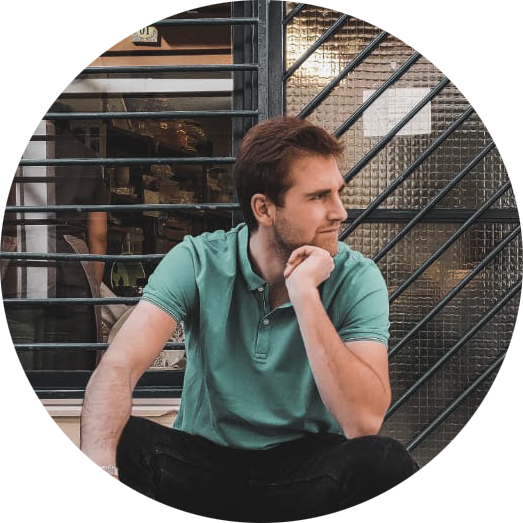
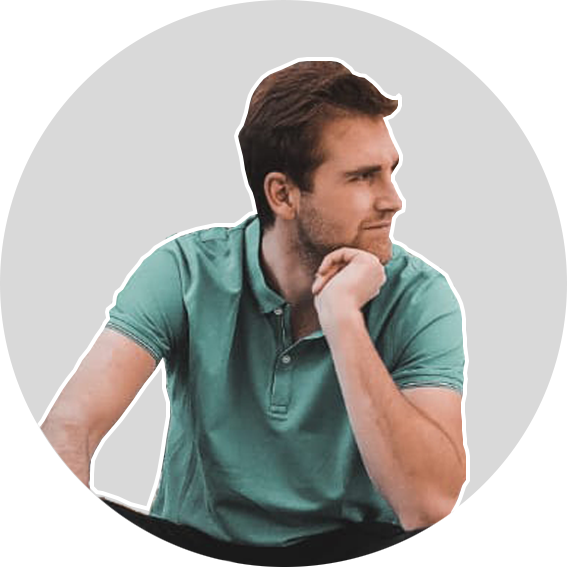
Head updated + profile image + homepage layout

diff --git a/view_my_project_wonderfood.html b/view_my_project_wonderfood.html
@@ -8,14 +8,19 @@
     <meta http-equiv="X-UA-Compatible" content="IE=edge,chrome=1">
     <meta name="HandheldFriendly" content="true">
     <meta charset="utf-8"/>
-    <link href="https://fonts.googleapis.com/css?family=Lato" rel="stylesheet">
-    <link href="https://fonts.googleapis.com/css?family=Merriweather:300,400" rel="stylesheet" type="text/css">
-    <link href="https://fonts.googleapis.com/css?family=Pacifico" rel="stylesheet">
-    <link rel="stylesheet" href="styles/style.css">
-    <link rel="stylesheet" href="https://cdnjs.cloudflare.com/ajax/libs/animate.css/4.0.0/animate.min.css"/>
-    <!--  Slick css  -->
+    <!--  Fonts  -->
+	<link href="https://fonts.googleapis.com/css?family=Lato" rel="stylesheet">
+	<link href="https://fonts.googleapis.com/css?family=Merriweather:300,400" rel="stylesheet" type="text/css">
+	<link href="https://fonts.googleapis.com/css?family=Pacifico" rel="stylesheet">
+	<!--  Style css  -->
+	<link rel="stylesheet" href="styles/style.css">
+	<link rel="stylesheet" href="https://cdnjs.cloudflare.com/ajax/libs/animate.css/4.0.0/animate.min.css"/>
+	<!--  Slick css  -->
 	<link rel="stylesheet" type="text/css" href="https://cdnjs.cloudflare.com/ajax/libs/slick-carousel/1.8.1/slick.min.css"/>
 	<link rel="stylesheet" type="text/css" href="https://cdnjs.cloudflare.com/ajax/libs/slick-carousel/1.8.1/slick-theme.min.css"/>
+	<!--  Swiper css  -->
+	<link rel="stylesheet" href="https://unpkg.com/swiper/swiper-bundle.css">
+	<link rel="stylesheet" href="https://unpkg.com/swiper/swiper-bundle.min.css">
 </head>
 
 <body>
@@ -185,6 +190,9 @@
 	<script src="https://cdnjs.cloudflare.com/ajax/libs/jquery/3.2.1/jquery.min.js"></script>
 	<!-- Slick -->
 	<script type="text/javascript" src="https://cdnjs.cloudflare.com/ajax/libs/slick-carousel/1.8.1/slick.min.js"></script>
+	<!-- Swiper -->
+	<script src="https://unpkg.com/swiper/swiper-bundle.js"></script>
+	<script src="https://unpkg.com/swiper/swiper-bundle.min.js"></script>
 	<!-- javaScript -->
 	<script src ="js/portfolio.js"></script>
     

diff --git a/index.html b/index.html
@@ -7,14 +7,19 @@
     <meta http-equiv="X-UA-Compatible" content="IE=edge,chrome=1">
     <meta name="HandheldFriendly" content="true">
     <meta charset="utf-8"/>
-    <link href="https://fonts.googleapis.com/css?family=Lato" rel="stylesheet">
-    <link href="https://fonts.googleapis.com/css?family=Merriweather:300,400" rel="stylesheet" type="text/css">
-    <link href="https://fonts.googleapis.com/css?family=Pacifico" rel="stylesheet">
-    <link rel="stylesheet" href="styles/style.css">
-    <link rel="stylesheet" href="https://cdnjs.cloudflare.com/ajax/libs/animate.css/4.0.0/animate.min.css"/>
-    <!--  Slick css  -->
+    <!--  Fonts  -->
+	<link href="https://fonts.googleapis.com/css?family=Lato" rel="stylesheet">
+	<link href="https://fonts.googleapis.com/css?family=Merriweather:300,400" rel="stylesheet" type="text/css">
+	<link href="https://fonts.googleapis.com/css?family=Pacifico" rel="stylesheet">
+	<!--  Style css  -->
+	<link rel="stylesheet" href="styles/style.css">
+	<link rel="stylesheet" href="https://cdnjs.cloudflare.com/ajax/libs/animate.css/4.0.0/animate.min.css"/>
+	<!--  Slick css  -->
 	<link rel="stylesheet" type="text/css" href="https://cdnjs.cloudflare.com/ajax/libs/slick-carousel/1.8.1/slick.min.css"/>
 	<link rel="stylesheet" type="text/css" href="https://cdnjs.cloudflare.com/ajax/libs/slick-carousel/1.8.1/slick-theme.min.css"/>
+	<!--  Swiper css  -->
+	<link rel="stylesheet" href="https://unpkg.com/swiper/swiper-bundle.css">
+	<link rel="stylesheet" href="https://unpkg.com/swiper/swiper-bundle.min.css">
 </head>
 
 <body>
@@ -53,6 +58,9 @@
 	<script src="https://cdnjs.cloudflare.com/ajax/libs/jquery/3.2.1/jquery.min.js"></script>
 	<!-- Slick -->
 	<script type="text/javascript" src="https://cdnjs.cloudflare.com/ajax/libs/slick-carousel/1.8.1/slick.min.js"></script>
+	<!-- Swiper -->
+	<script src="https://unpkg.com/swiper/swiper-bundle.js"></script>
+	<script src="https://unpkg.com/swiper/swiper-bundle.min.js"></script>
 	<!-- javaScript -->
 	<script src ="js/portfolio.js"></script>
     

diff --git a/view_my_project_ariane.html b/view_my_project_ariane.html
@@ -8,14 +8,19 @@
 	<meta http-equiv="X-UA-Compatible" content="IE=edge,chrome=1">
 	<meta name="HandheldFriendly" content="true">
 	<meta charset="utf-8"/>
+	<!--  Fonts  -->
 	<link href="https://fonts.googleapis.com/css?family=Lato" rel="stylesheet">
 	<link href="https://fonts.googleapis.com/css?family=Merriweather:300,400" rel="stylesheet" type="text/css">
 	<link href="https://fonts.googleapis.com/css?family=Pacifico" rel="stylesheet">
+	<!--  Style css  -->
 	<link rel="stylesheet" href="styles/style.css">
 	<link rel="stylesheet" href="https://cdnjs.cloudflare.com/ajax/libs/animate.css/4.0.0/animate.min.css"/>
 	<!--  Slick css  -->
 	<link rel="stylesheet" type="text/css" href="https://cdnjs.cloudflare.com/ajax/libs/slick-carousel/1.8.1/slick.min.css"/>
 	<link rel="stylesheet" type="text/css" href="https://cdnjs.cloudflare.com/ajax/libs/slick-carousel/1.8.1/slick-theme.min.css"/>
+	<!--  Swiper css  -->
+	<link rel="stylesheet" href="https://unpkg.com/swiper/swiper-bundle.css">
+	<link rel="stylesheet" href="https://unpkg.com/swiper/swiper-bundle.min.css">
 </head>
 
 <body>
@@ -120,6 +125,9 @@
 	<script src="https://cdnjs.cloudflare.com/ajax/libs/jquery/3.2.1/jquery.min.js"></script>
 	<!-- Slick -->
 	<script type="text/javascript" src="https://cdnjs.cloudflare.com/ajax/libs/slick-carousel/1.8.1/slick.min.js"></script>
+	<!-- Swiper -->
+	<script src="https://unpkg.com/swiper/swiper-bundle.js"></script>
+	<script src="https://unpkg.com/swiper/swiper-bundle.min.js"></script>
 	<!-- javaScript -->
 	<script src ="js/portfolio.js"></script>
 	

diff --git a/view_my_project_orphee.html b/view_my_project_orphee.html
@@ -8,14 +8,19 @@
 	<meta http-equiv="X-UA-Compatible" content="IE=edge,chrome=1">
 	<meta name="HandheldFriendly" content="true">
 	<meta charset="utf-8"/>
+	<!--  Fonts  -->
 	<link href="https://fonts.googleapis.com/css?family=Lato" rel="stylesheet">
 	<link href="https://fonts.googleapis.com/css?family=Merriweather:300,400" rel="stylesheet" type="text/css">
 	<link href="https://fonts.googleapis.com/css?family=Pacifico" rel="stylesheet">
+	<!--  Style css  -->
 	<link rel="stylesheet" href="styles/style.css">
 	<link rel="stylesheet" href="https://cdnjs.cloudflare.com/ajax/libs/animate.css/4.0.0/animate.min.css"/>
 	<!--  Slick css  -->
 	<link rel="stylesheet" type="text/css" href="https://cdnjs.cloudflare.com/ajax/libs/slick-carousel/1.8.1/slick.min.css"/>
 	<link rel="stylesheet" type="text/css" href="https://cdnjs.cloudflare.com/ajax/libs/slick-carousel/1.8.1/slick-theme.min.css"/>
+	<!--  Swiper css  -->
+	<link rel="stylesheet" href="https://unpkg.com/swiper/swiper-bundle.css">
+	<link rel="stylesheet" href="https://unpkg.com/swiper/swiper-bundle.min.css">
 </head>
 
 <body>
@@ -165,6 +170,9 @@
 	<script src="https://cdnjs.cloudflare.com/ajax/libs/jquery/3.2.1/jquery.min.js"></script>
 	<!-- Slick -->
 	<script type="text/javascript" src="https://cdnjs.cloudflare.com/ajax/libs/slick-carousel/1.8.1/slick.min.js"></script>
+	<!-- Swiper -->
+	<script src="https://unpkg.com/swiper/swiper-bundle.js"></script>
+	<script src="https://unpkg.com/swiper/swiper-bundle.min.js"></script>
 	<!-- javaScript -->
 	<script src ="js/portfolio.js"></script>
 	

diff --git a/about.html b/about.html
@@ -8,14 +8,19 @@
 	<meta http-equiv="X-UA-Compatible" content="IE=edge,chrome=1">
 	<meta name="HandheldFriendly" content="true">
 	<meta charset="utf-8"/>
+	<!--  Fonts  -->
 	<link href="https://fonts.googleapis.com/css?family=Lato" rel="stylesheet">
 	<link href="https://fonts.googleapis.com/css?family=Merriweather:300,400" rel="stylesheet" type="text/css">
 	<link href="https://fonts.googleapis.com/css?family=Pacifico" rel="stylesheet">
+	<!--  Style css  -->
 	<link rel="stylesheet" href="styles/style.css">
 	<link rel="stylesheet" href="https://cdnjs.cloudflare.com/ajax/libs/animate.css/4.0.0/animate.min.css"/>
 	<!--  Slick css  -->
 	<link rel="stylesheet" type="text/css" href="https://cdnjs.cloudflare.com/ajax/libs/slick-carousel/1.8.1/slick.min.css"/>
 	<link rel="stylesheet" type="text/css" href="https://cdnjs.cloudflare.com/ajax/libs/slick-carousel/1.8.1/slick-theme.min.css"/>
+	<!--  Swiper css  -->
+	<link rel="stylesheet" href="https://unpkg.com/swiper/swiper-bundle.css">
+	<link rel="stylesheet" href="https://unpkg.com/swiper/swiper-bundle.min.css">
 </head>
 
 <body>
@@ -66,6 +71,9 @@
 	<script src="https://cdnjs.cloudflare.com/ajax/libs/jquery/3.2.1/jquery.min.js"></script>
 	<!-- Slick -->
 	<script type="text/javascript" src="https://cdnjs.cloudflare.com/ajax/libs/slick-carousel/1.8.1/slick.min.js"></script>
+	<!-- Swiper -->
+	<script src="https://unpkg.com/swiper/swiper-bundle.js"></script>
+	<script src="https://unpkg.com/swiper/swiper-bundle.min.js"></script>
 	<!-- javaScript -->
 	<script src ="js/portfolio.js"></script>
 	

diff --git a/styles/style.scss b/styles/style.scss
@@ -137,7 +137,7 @@ button {
             font-size: 2rem;
             line-height: 60%;
             margin-left: 4rem;
-            margin-top: 4rem;
+            margin-top: 2rem;
         }
 
         .profession {
@@ -149,11 +149,13 @@ button {
         .imageprofile {
             @include marginCenter();
             width: 45%;
-            margin-top: 4rem;
+            margin-top: 2rem;
+            border: 2px solid white;
+            border-radius: 100%;
         }
 
         #homepageMenu {
-            margin: 4rem 0;
+            margin: 2rem 0;
         }
 
         .itemsMenu {
@@ -171,7 +173,7 @@ button {
 
         .socialNetworks-container {
             text-align: center;
-            margin-top: 4rem;
+            margin-top: 2rem;
         }
     
         .socialNetworks_logo {

diff --git a/styles/style.css b/styles/style.css
@@ -106,7 +106,7 @@ button:hover {
     font-size: 2rem;
     line-height: 60%;
     margin-left: 4rem;
-    margin-top: 4rem;
+    margin-top: 2rem;
   }
   .profession {
     line-height: 130%;
@@ -118,10 +118,12 @@ button:hover {
     margin-left: auto;
     margin-right: auto;
     width: 45%;
-    margin-top: 4rem;
+    margin-top: 2rem;
+    border: 2px solid white;
+    border-radius: 100%;
   }
   #homepageMenu {
-    margin: 4rem 0;
+    margin: 2rem 0;
   }
   .itemsMenu {
     text-align: center;
@@ -137,7 +139,7 @@ button:hover {
   }
   .socialNetworks-container {
     text-align: center;
-    margin-top: 4rem;
+    margin-top: 2rem;
   }
   .socialNetworks_logo {
     width: 30px;
